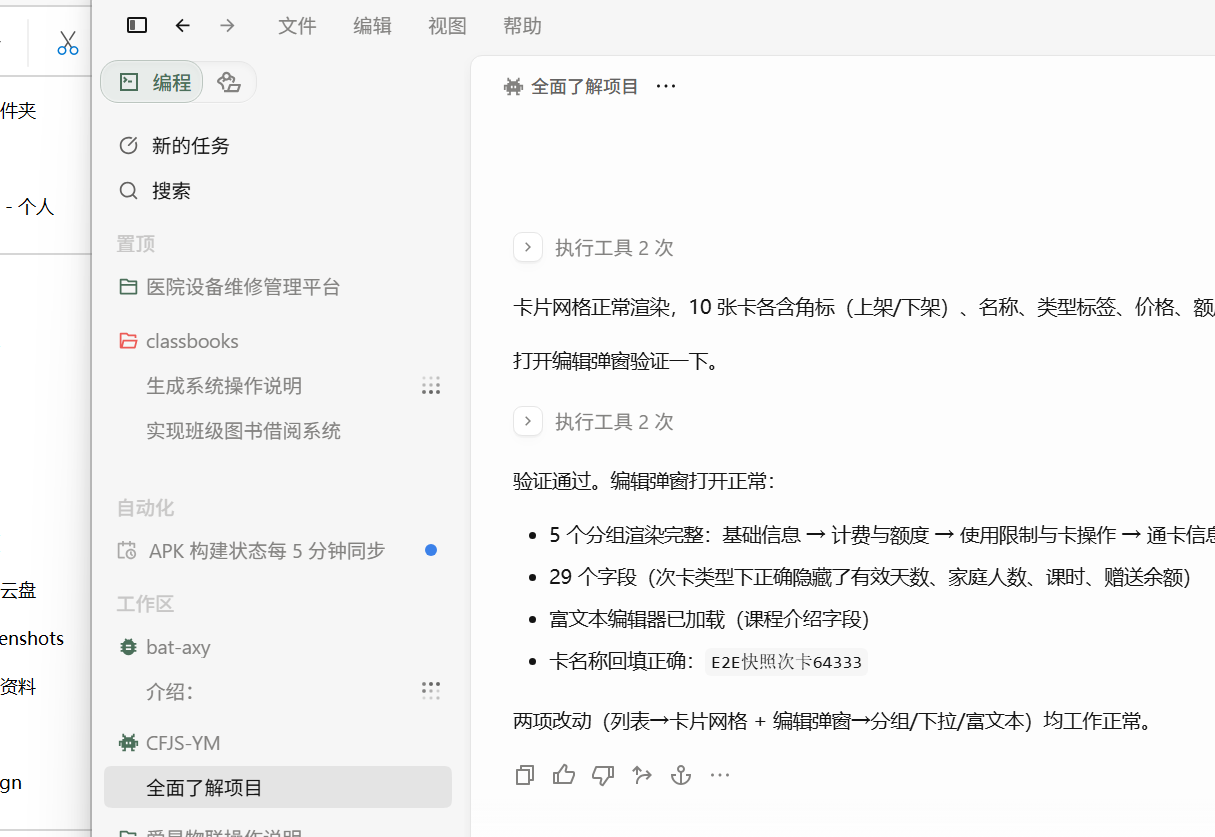
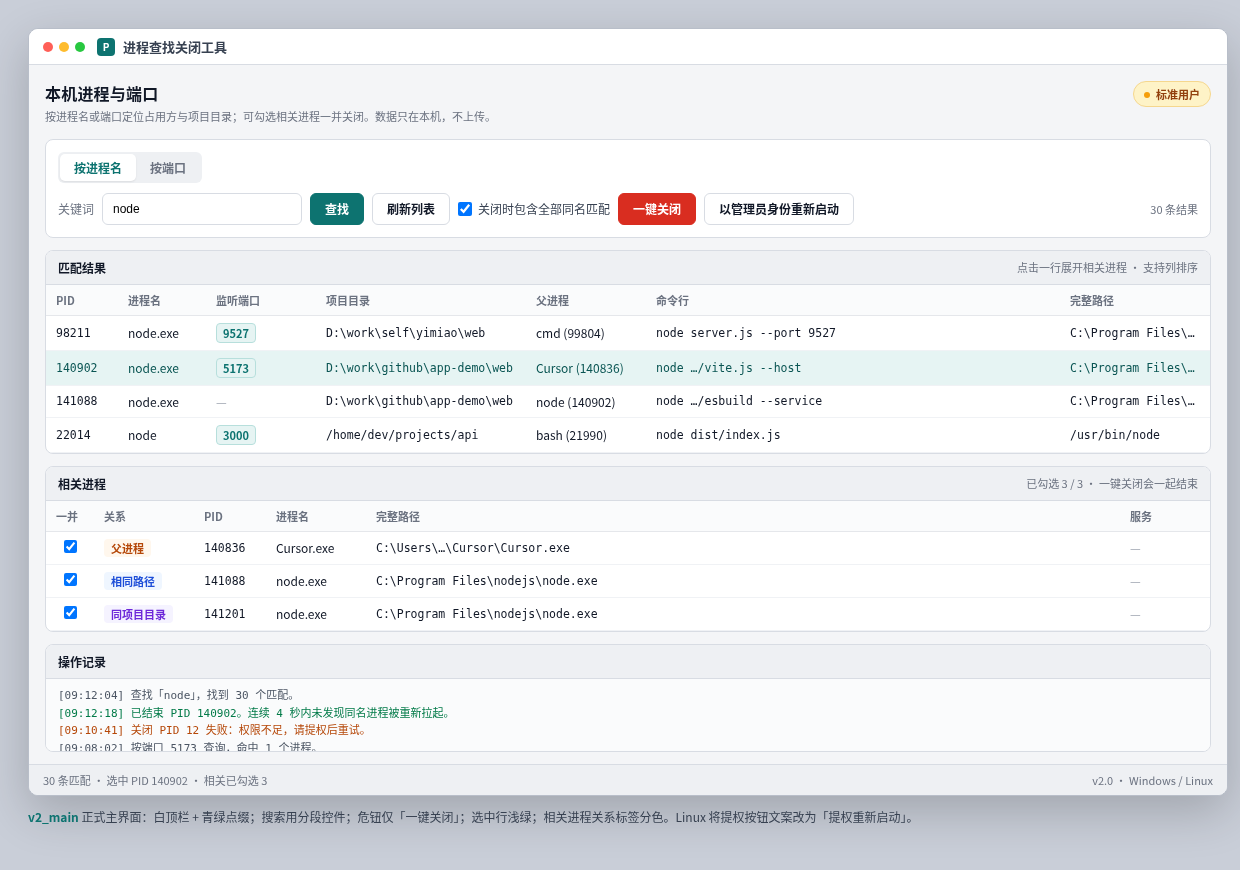
docs: replace wrong 06-windows README screenshot
Previous image was a Cursor sidebar, not process-manager. Use cropped
design/v2_main.png (results + related processes, Windows paths).

diff --git a/README.md b/README.md
@@ -37,9 +37,9 @@ Apple 以外平台的本机进程 / 端口查找与关闭工具：**Windows + Li
 
 ![一屏与日志](docs/readme/05-onescreen-log.png)
 
-**Windows 桌面包**
+**桌面主界面（Win/Linux GUI 同源；示意含 Windows 路径）**
 
-![Windows](docs/readme/06-windows.png)
+![桌面主界面](docs/readme/06-windows.png)
 
 ## 目录
 
